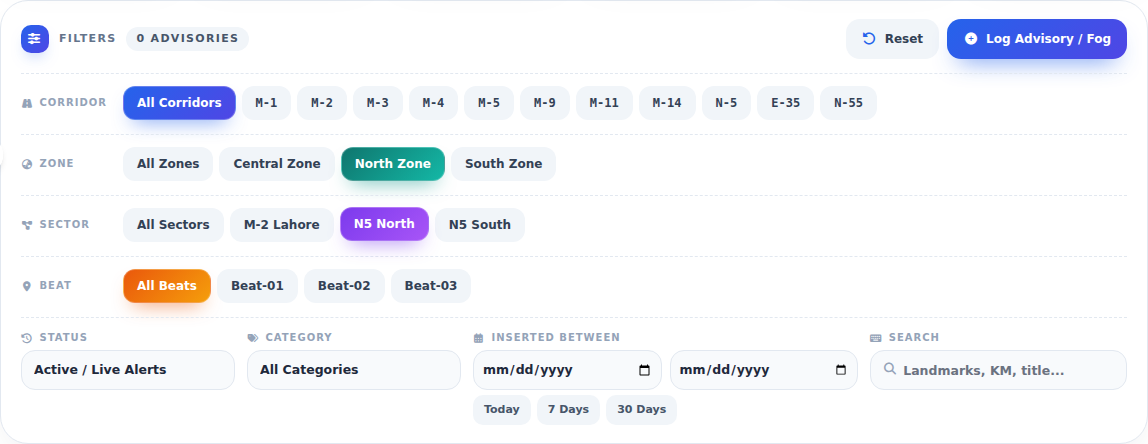
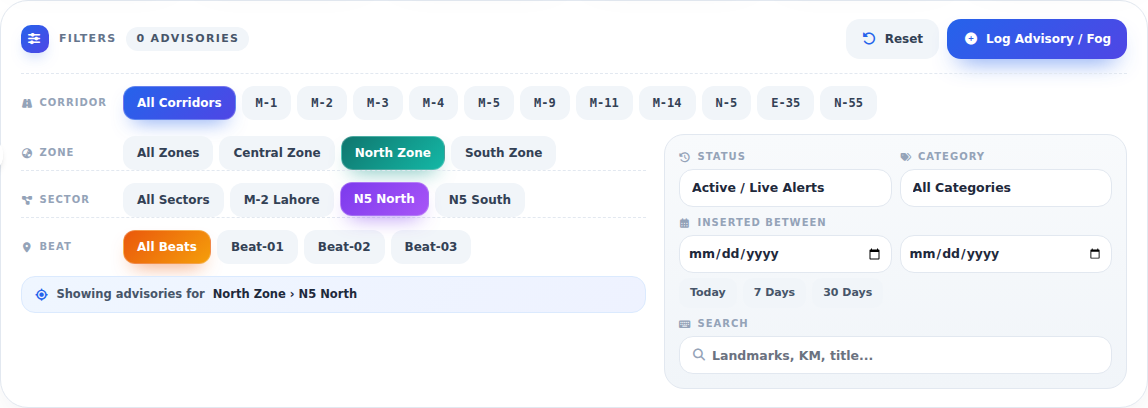
style(travel-advisory): two-column filter card (jurisdiction chips left, status/category/dates/search right) with selection breadcrumb

diff --git a/resources/views/operations/travel-advisory/index.blade.php b/resources/views/operations/travel-advisory/index.blade.php
@@ -242,10 +242,20 @@
         .taf-chip.sector.on{background:linear-gradient(135deg,#7c3aed,#a855f7);box-shadow:0 10px 20px -10px rgba(124,58,237,.7)}
         .taf-chip.beat.on{background:linear-gradient(135deg,#ea580c,#f59e0b);box-shadow:0 10px 20px -10px rgba(234,88,12,.7)}
         .taf-hint{font-size:11px;color:#94a3b8;font-weight:600;padding-top:9px}
-        .taf-tools{display:grid;grid-template-columns:minmax(0,1fr) minmax(0,1fr) minmax(0,1.8fr) minmax(0,1.2fr);gap:12px;padding-top:12px;border-top:1px dashed #e2e8f0;align-items:start}
+        .taf-split{display:grid;grid-template-columns:minmax(0,1.35fr) minmax(330px,1fr);gap:18px;align-items:start}
+        .taf-scope{display:grid;gap:0;min-width:0}
+        .taf-scope .taf-row:first-child{border-top:0;padding-top:2px}
+        .taf-side{background:linear-gradient(180deg,#f8fafc,#f1f5f9);border:1px solid #e2e8f0;border-radius:20px;padding:14px;min-width:0}
+        .taf-tools{display:grid;grid-template-columns:minmax(0,1fr) minmax(0,1fr);gap:10px;align-items:start}
+        .taf-tools .taf-field.dates,.taf-tools .taf-field.wide{grid-column:span 2}
+        .taf-side .taf-input{background:#fff;height:38px}
+        .taf-side .taf-tools{gap:8px}
+        .taf-crumb{display:flex;align-items:center;gap:8px;flex-wrap:wrap;margin-top:12px;padding:9px 12px;border-radius:14px;background:linear-gradient(135deg,#eff6ff,#eef2ff);border:1px solid #dbeafe;font-size:11.5px;font-weight:600;color:#475569}
+        .taf-crumb i{color:#2563eb}
+        .taf-crumb strong{color:#1e293b;font-weight:800}
         .taf-dates .taf-input{min-width:0;padding:0 8px}
-        @media (max-width:1100px){.taf-tools{grid-template-columns:repeat(2,minmax(0,1fr))}.taf-field.dates{grid-column:span 2}}
-        @media (max-width:640px){.taf-tools{grid-template-columns:minmax(0,1fr)}.taf-field.dates{grid-column:span 1}}
+        @media (max-width:1100px){.taf-split{grid-template-columns:minmax(0,1fr)}}
+        @media (max-width:640px){.taf-tools{grid-template-columns:minmax(0,1fr)}.taf-tools .taf-field.dates,.taf-tools .taf-field.wide{grid-column:span 1}}
         .taf-field{display:grid;gap:5px;min-width:0}
         .taf-field>span{font-size:10px;font-weight:800;letter-spacing:.1em;text-transform:uppercase;color:#94a3b8;display:flex;align-items:center;gap:6px}
         .taf-input{width:100%;height:40px;border-radius:14px;border:1px solid #e2e8f0;background:#f8fafc;padding:0 12px;font-size:12.5px;font-weight:700;color:#1e293b;outline:none;transition:all .15s ease;font-family:inherit}
@@ -288,6 +298,9 @@
             </div>
         </div>
 
+        <!-- Two-column body: jurisdiction chips (left) | status, category, dates, search (right) -->
+        <div class="taf-split">
+        <div class="taf-scope">
         <!-- Zone -->
         <div class="taf-row" x-show="hierarchy.zones.length > 0">
             <div class="taf-label"><i class="fa-solid fa-earth-asia"></i> Zone</div>
@@ -335,7 +348,13 @@
             </div>
         </div>
 
-        <!-- Status / Category / Dates / Search -->
+            <div class="taf-crumb" x-show="zoneId || sectorId || beatId" x-transition.opacity.duration.150ms>
+                <i class="fa-solid fa-location-crosshairs"></i>
+                <span>Showing advisories for</span>
+                <strong x-text="scopeLabel()"></strong>
+            </div>
+        </div>
+        <div class="taf-side">
         <div class="taf-tools">
             <label class="taf-field">
                 <span><i class="fa-solid fa-clock-rotate-left"></i> Status</span>
@@ -373,13 +392,15 @@
                     <button type="button" class="taf-mini danger" x-show="dateFrom || dateTo" @click="clearDates()">Clear</button>
                 </div>
             </div>
-            <label class="taf-field">
+            <label class="taf-field wide">
                 <span><i class="fa-solid fa-keyboard"></i> Search</span>
                 <div class="taf-search">
                     <i class="fa-solid fa-magnifying-glass"></i>
                     <input type="text" x-model="search" @input.debounce.300ms="fetchData(1)" placeholder="Landmarks, KM, title..." class="taf-input">
                 </div>
             </label>
+        </div>
+        </div>
         </div>
     </div>
 
@@ -1322,6 +1343,12 @@ function advisoryIndexManager(config) {
         corridorList: ['M-1', 'M-2', 'M-3', 'M-4', 'M-5', 'M-9', 'M-11', 'M-14', 'N-5', 'E-35', 'N-55'],
         isLoading: false,
 
+        scopeLabel() {
+            const z = (this.hierarchy.zones || []).find(x => x.id === this.zoneId);
+            const sx = (this.hierarchy.sectors || []).find(x => x.id === this.sectorId);
+            const b = (this.hierarchy.beats || []).find(x => x.id === this.beatId);
+            return [z && z.name, sx && sx.name, b && b.name].filter(Boolean).join('  \u203a  ');
+        },
         visibleZones() {
             const z = this.hierarchy.zones || [];
             return this.lock.zone ? z.filter(x => x.id === this.lock.zone) : z;
